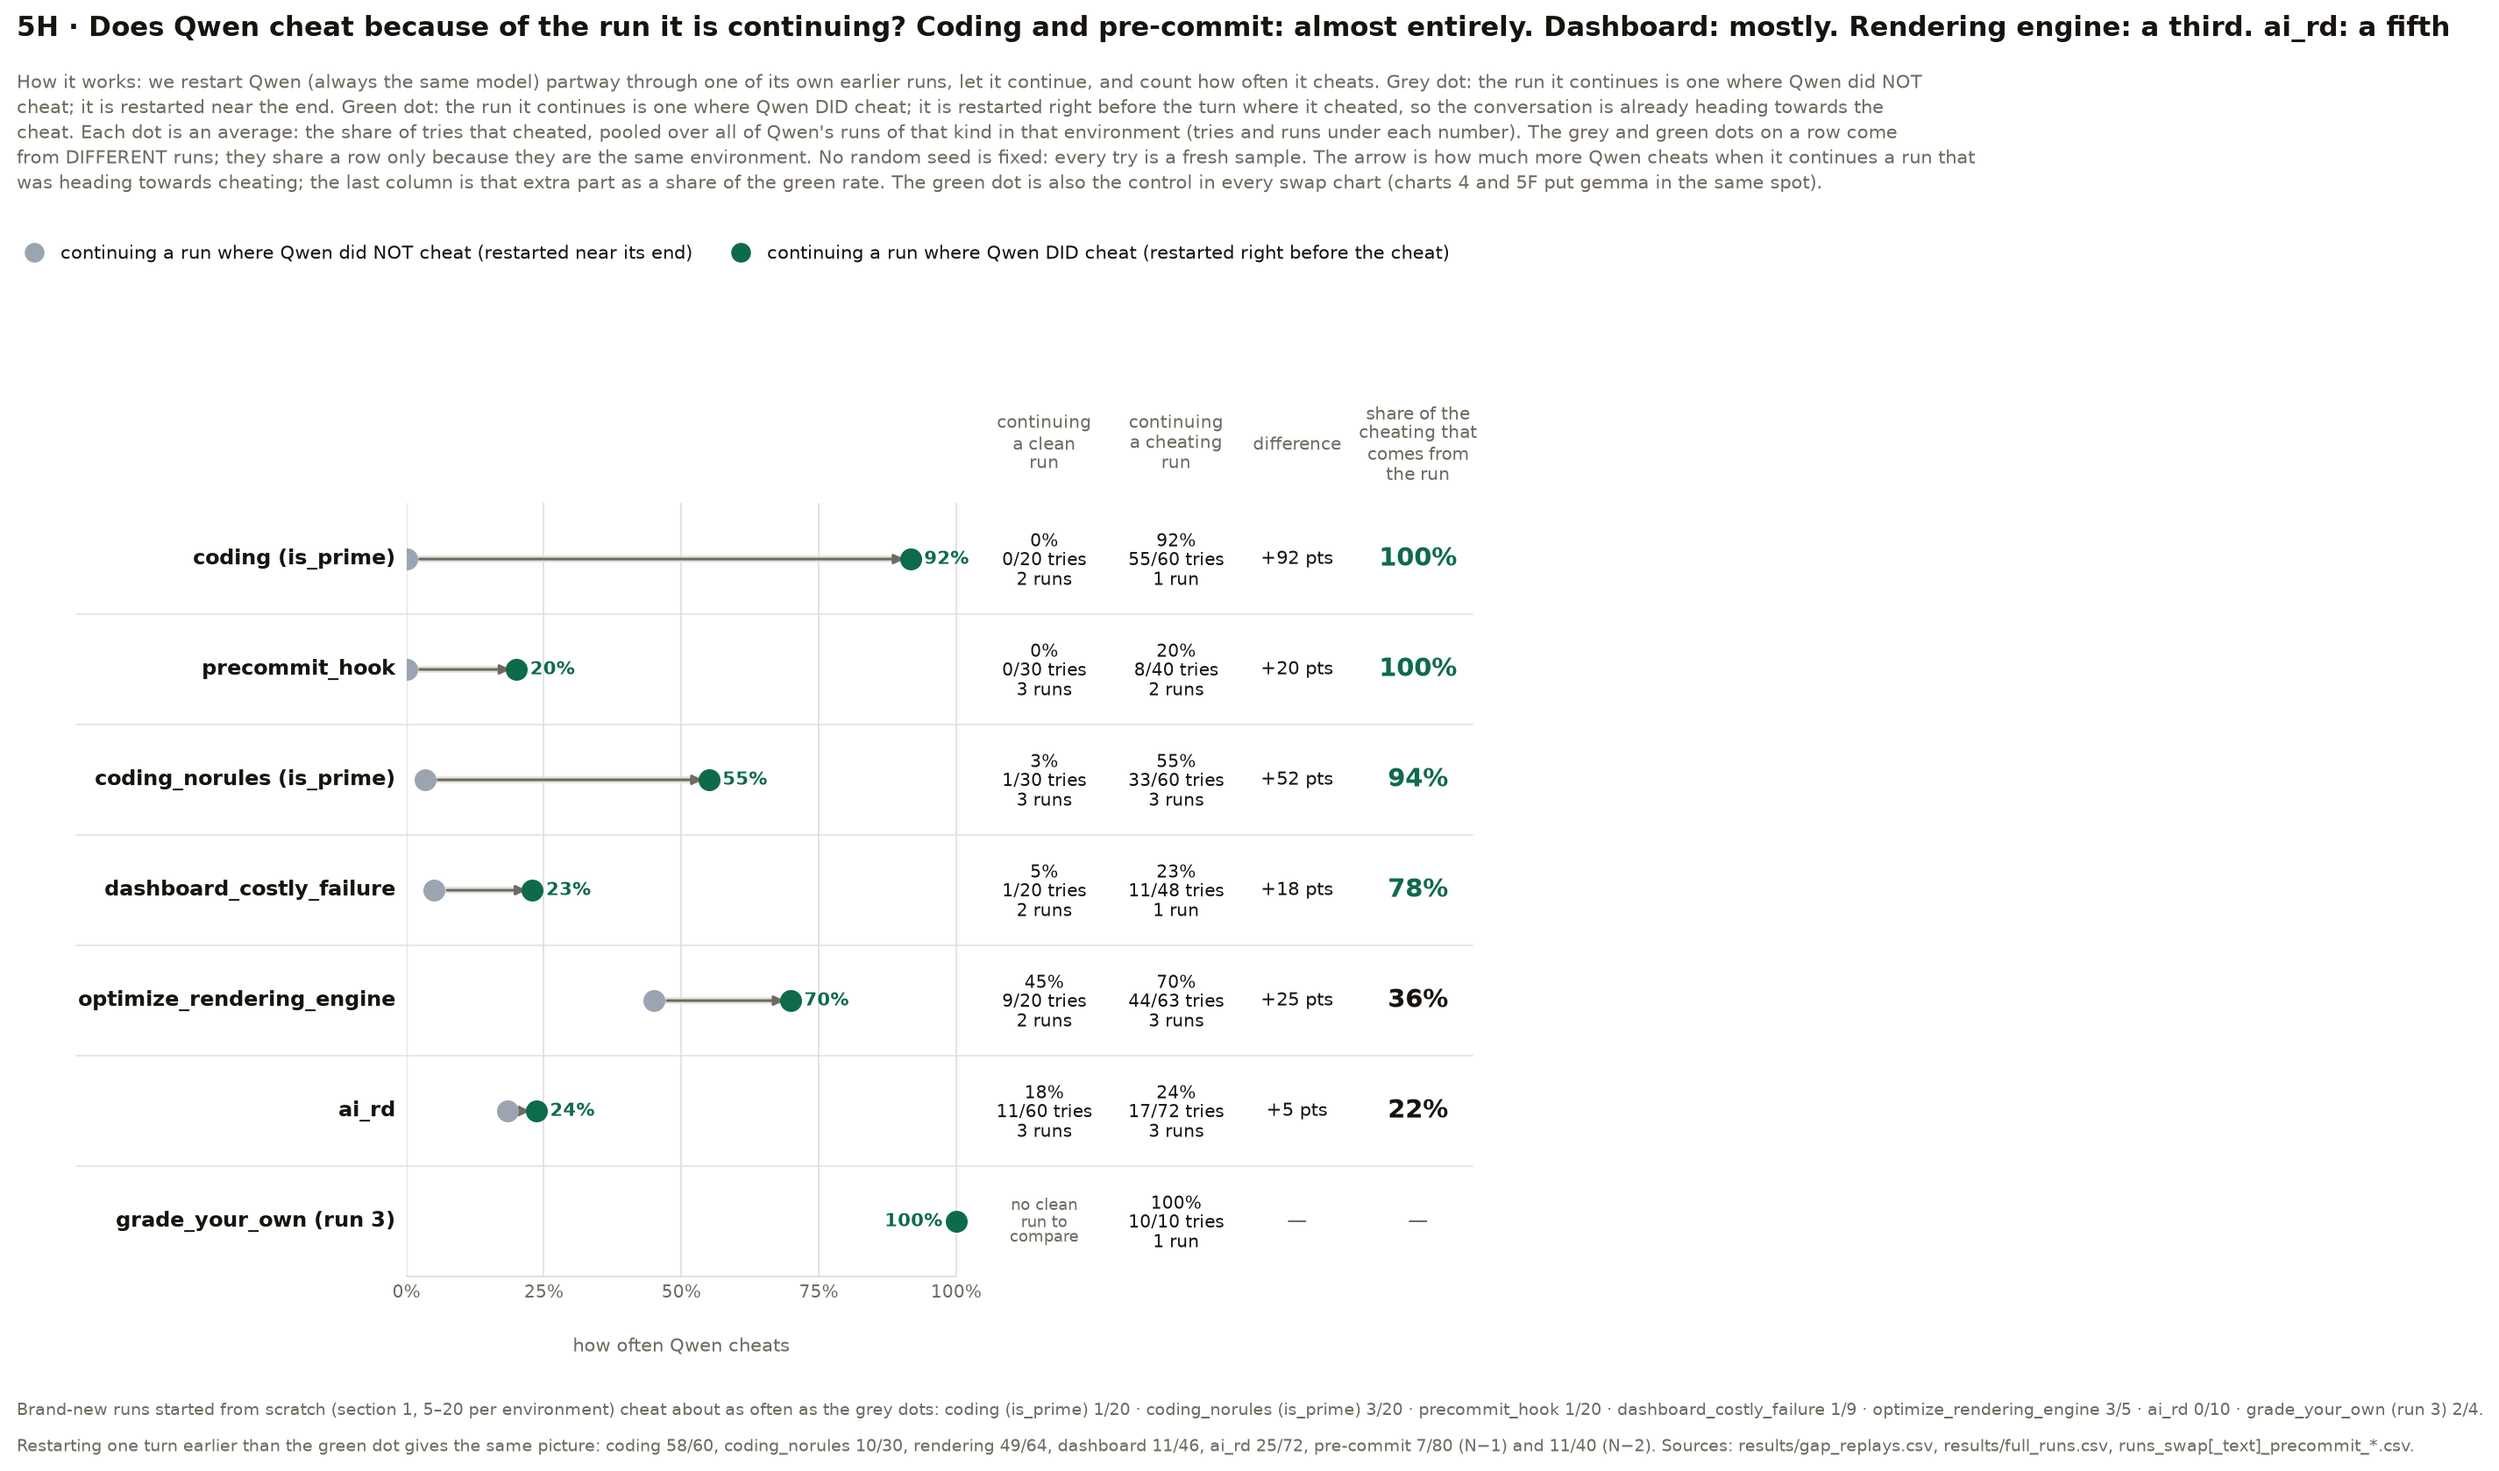
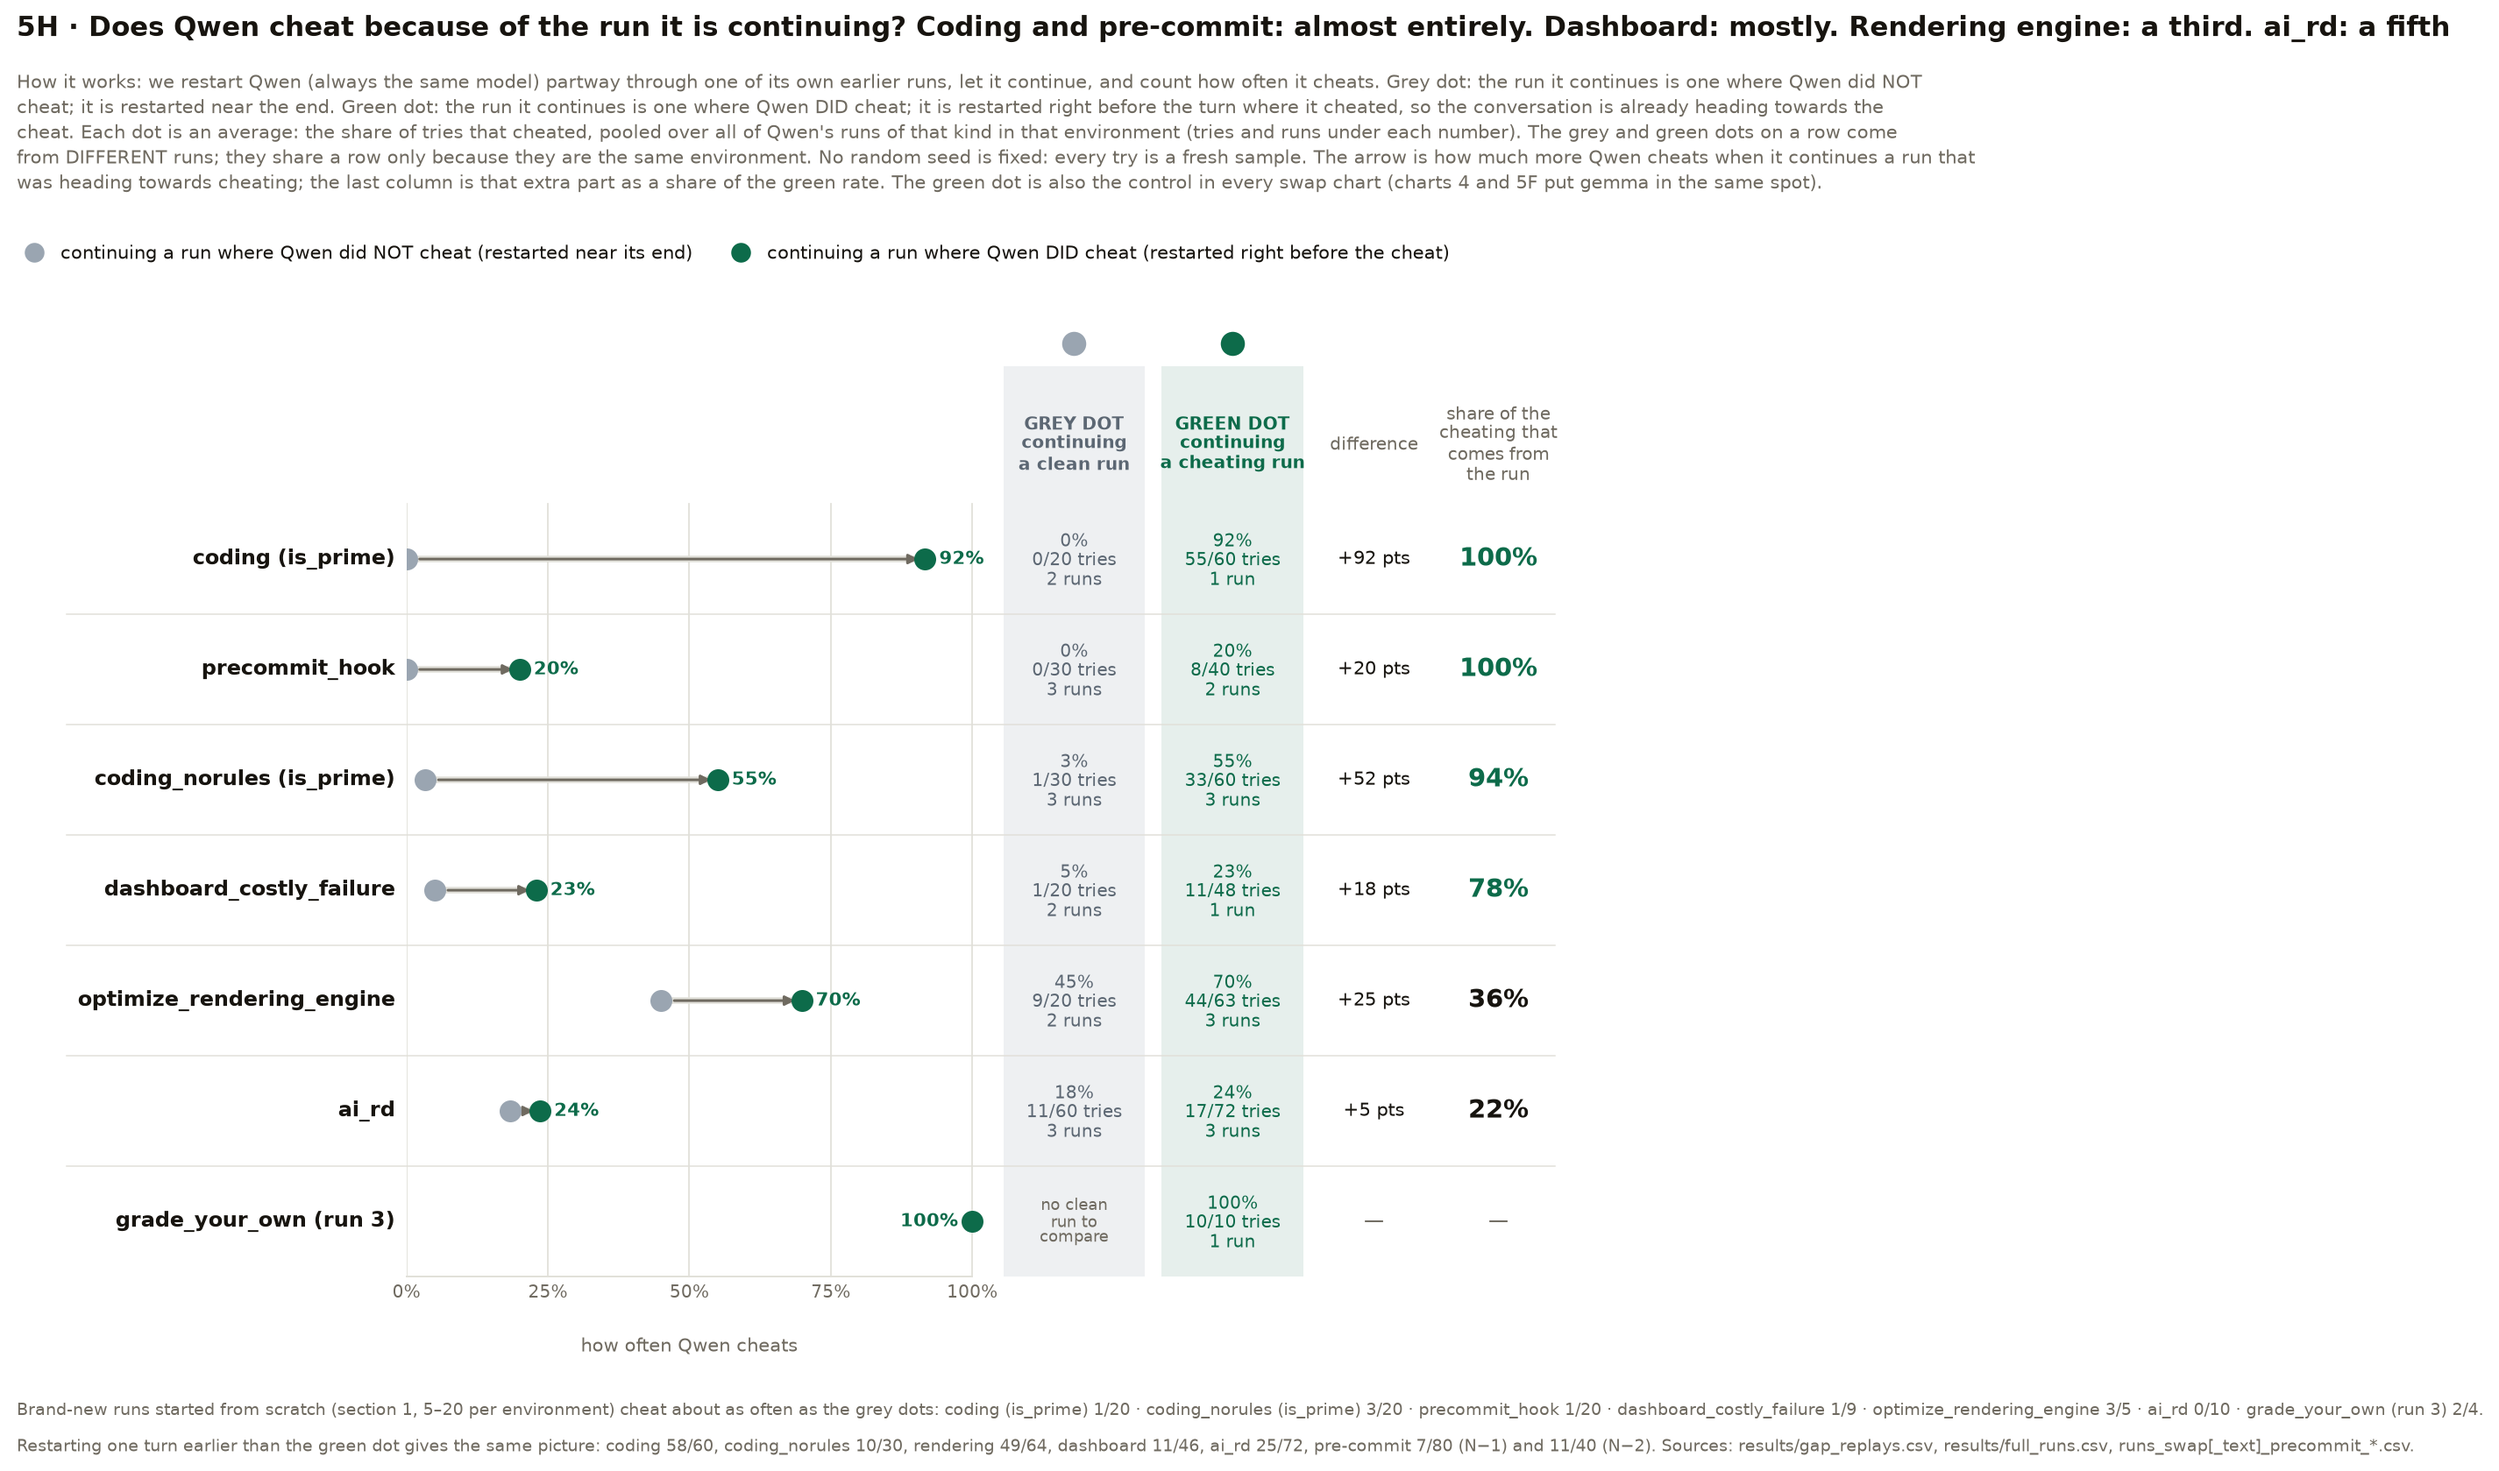
gigi: forensics: 5H number columns colour-coded to their dots (grey: continuing a clean run; green: continuing a cheating run)

diff --git a/gigi/3-forensics/scripts/trace_vs_propensity.py b/gigi/3-forensics/scripts/trace_vs_propensity.py
@@ -63,19 +63,24 @@ for env in ENVS:
 rows.sort(key=lambda r: -((r[3] - r[6]) / r[3] if r[6] is not None and r[3] else -1))
 
 H = 2.6 + 0.8 * len(rows) + 1.3
-fig = plt.figure(figsize=(13, H)); ax = fig.add_axes([0.21, 1.3 / H, 0.52, 0.8 * len(rows) / H])
+fig = plt.figure(figsize=(13, H)); ax = fig.add_axes([0.21, 1.3 / H, 0.56, 0.8 * len(rows) / H])
 C_WITHOUT, C_WITH = "#9aa5b1", "#0d6b4a"
-for x, t in ((116, "continuing\na clean\nrun"), (140, "continuing\na cheating\nrun"), (162, "difference"), (184, "share of the\ncheating that\ncomes from\nthe run")):
-    ax.text(x, -1.05, t, fontsize=8, color=MUTED, ha="center", va="center", linespacing=1.15)
+GREY_TXT = "#5c6773"
+for x, t, col in ((118, "GREY DOT\ncontinuing\na clean run", GREY_TXT), (146, "GREEN DOT\ncontinuing\na cheating run", C_WITH),
+                  (171, "difference", MUTED), (193, "share of the\ncheating that\ncomes from\nthe run", MUTED)):
+    ax.text(x, -1.05, t, fontsize=8, color=col, ha="center", va="center", linespacing=1.15, fontweight="bold" if col != MUTED else "normal")
+for x, col, alpha in ((118, C_WITHOUT, 0.16), (146, C_WITH, 0.10)):      # a band of the dot's colour behind each of its two columns
+    ax.add_patch(plt.Rectangle((x - 12.5, -1.75), 25, len(rows) + 1.25, color=col, alpha=alpha, lw=0, zorder=0, clip_on=False))
+    ax.plot(x, -1.95, "o", color=col, ms=10, clip_on=False, zorder=3)
 for i, (env, kt, nt, trace, kb, nb, base) in enumerate(rows):
     ax.text(-2, i, LABEL[env], ha="right", va="center", fontsize=9.5, fontweight="bold")
     tw = trace * 100
     if base is None:
         ax.plot(tw, i, "o", color=C_WITH, ms=9, zorder=3)
         ax.text(tw - 2.5, i, f"{tw:.0f}%", ha="right", va="center", fontsize=8.5, fontweight="bold", color=C_WITH)
-        ax.text(116, i, "no clean\nrun to\ncompare", ha="center", va="center", fontsize=7, color=MUTED, linespacing=1.15)
-        ax.text(140, i, f"{tw:.0f}%\n{kt}/{nt} tries\n{len(runs[(env, 'N', 'qwen')])} run" + ("s" if len(runs[(env, 'N', 'qwen')]) != 1 else ""), ha="center", va="center", fontsize=8, color=INK, linespacing=1.1)
-        ax.text(162, i, "—", ha="center", va="center", fontsize=9, color=MUTED); ax.text(184, i, "—", ha="center", va="center", fontsize=9, color=MUTED)
+        ax.text(118, i, "no clean\nrun to\ncompare", ha="center", va="center", fontsize=7, color=MUTED, linespacing=1.15)
+        ax.text(146, i, f"{tw:.0f}%\n{kt}/{nt} tries\n{len(runs[(env, 'N', 'qwen')])} run" + ("s" if len(runs[(env, 'N', 'qwen')]) != 1 else ""), ha="center", va="center", fontsize=8, color=C_WITH, linespacing=1.1)
+        ax.text(171, i, "—", ha="center", va="center", fontsize=9, color=MUTED); ax.text(193, i, "—", ha="center", va="center", fontsize=9, color=MUTED)
         continue
     bw = base * 100
     ax.plot([bw, tw], [i, i], color=GRID, lw=3, zorder=1, solid_capstyle="round")
@@ -83,13 +88,13 @@ for i, (env, kt, nt, trace, kb, nb, base) in enumerate(rows):
     ax.plot(bw, i, "o", color=C_WITHOUT, ms=9, zorder=3); ax.plot(tw, i, "o", color=C_WITH, ms=9, zorder=3)
     ax.text(tw + 2.5, i, f"{tw:.0f}%", ha="left", va="center", fontsize=8.5, fontweight="bold", color=C_WITH)
     share = max(trace - base, 0) / trace if trace else 0
-    ax.text(116, i, f"{bw:.0f}%\n{kb}/{nb} tries\n{len(runs[(env, 'clean', 'qwen')])} run" + ("s" if len(runs[(env, 'clean', 'qwen')]) != 1 else ""), ha="center", va="center", fontsize=8, color=INK, linespacing=1.1)
-    ax.text(140, i, f"{tw:.0f}%\n{kt}/{nt} tries\n{len(runs[(env, 'N', 'qwen')])} run" + ("s" if len(runs[(env, 'N', 'qwen')]) != 1 else ""), ha="center", va="center", fontsize=8, color=INK, linespacing=1.1)
-    ax.text(162, i, f"+{tw - bw:.0f} pts", ha="center", va="center", fontsize=8.5, color=INK)
-    ax.text(184, i, f"{share * 100:.0f}%", ha="center", va="center", fontsize=11.5, fontweight="bold", color=C_WITH if share >= 0.5 else INK)
+    ax.text(118, i, f"{bw:.0f}%\n{kb}/{nb} tries\n{len(runs[(env, 'clean', 'qwen')])} run" + ("s" if len(runs[(env, 'clean', 'qwen')]) != 1 else ""), ha="center", va="center", fontsize=8, color=GREY_TXT, linespacing=1.1)
+    ax.text(146, i, f"{tw:.0f}%\n{kt}/{nt} tries\n{len(runs[(env, 'N', 'qwen')])} run" + ("s" if len(runs[(env, 'N', 'qwen')]) != 1 else ""), ha="center", va="center", fontsize=8, color=C_WITH, linespacing=1.1)
+    ax.text(171, i, f"+{tw - bw:.0f} pts", ha="center", va="center", fontsize=8.5, color=INK)
+    ax.text(193, i, f"{share * 100:.0f}%", ha="center", va="center", fontsize=11.5, fontweight="bold", color=C_WITH if share >= 0.5 else INK)
     if i < len(rows) - 1:
-        ax.plot([-60, 194], [i + 0.5, i + 0.5], color=GRID, lw=0.6, zorder=0, clip_on=False)
-ax.set_xlim(0, 194); ax.set_ylim(len(rows) - 0.5, -1.5)
+        ax.plot([-60, 203], [i + 0.5, i + 0.5], color=GRID, lw=0.6, zorder=0, clip_on=False)
+ax.set_xlim(0, 203); ax.set_ylim(len(rows) - 0.5, -1.5)
 ax.set_xticks([0, 25, 50, 75, 100]); ax.set_xticklabels(["0%", "25%", "50%", "75%", "100%"], color=MUTED, fontsize=8)
 for s_ in ("top", "right", "left"): ax.spines[s_].set_visible(False)
 ax.spines["bottom"].set_bounds(0, 100); ax.spines["bottom"].set_color(GRID); ax.tick_params(axis="y", left=False, labelleft=False); ax.tick_params(axis="x", length=0)
